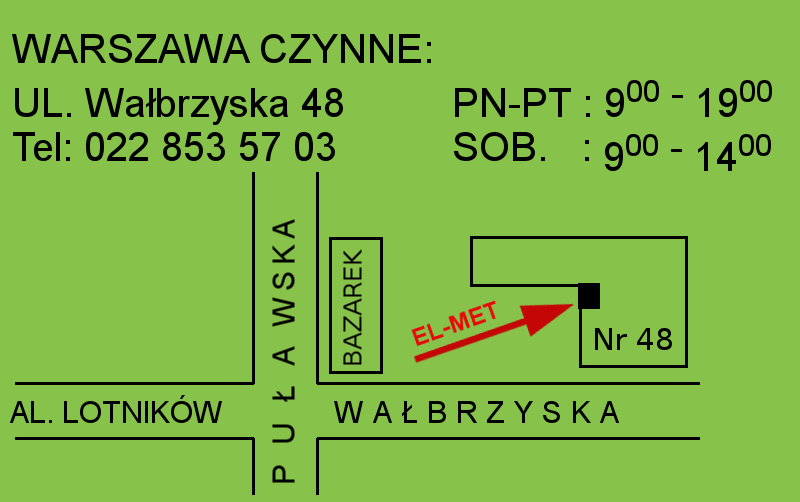
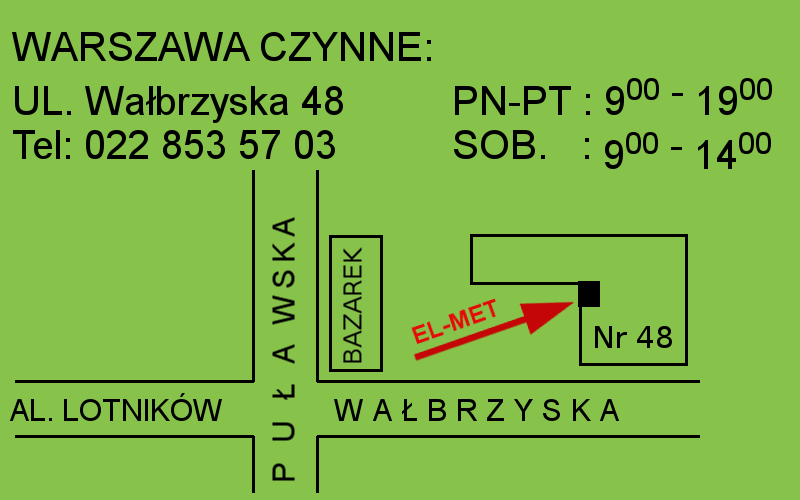
Contact Image | 1. Added scrolling to image only if image outside of viewport 2. Changed a size of pics to be more similar

diff --git a/js/common.js b/js/common.js
@@ -42,3 +42,11 @@ function scrollToElement(domElement) {
     'behavior': 'smooth'
   });
 }
+
+function checkIfElementInViewport(element) {
+  let checkedOffset = element.offsetTop;
+  let isTopOnscreen = window.pageYOffset < checkedOffset && checkedOffset < window.pageYOffset + window.innerHeight;
+  checkedOffset = element.offsetTop + element.offsetHeight;
+  let isBottomOnscreen = window.pageYOffset < checkedOffset && checkedOffset < window.pageYOffset + window.innerHeight;
+  return isTopOnscreen && isBottomOnscreen;
+}

diff --git a/js/scripts.js b/js/scripts.js
@@ -150,7 +150,9 @@ function addOnClickEventToContactImages() {
     if (img && img.getAttribute('src')) {
       contactBigImageElement.setAttribute('src', img.getAttribute('src'));
       blink(imageTopWrapper, 'contact-image-border-tapped');
-      scrollToElement(contactBigImageElement);
+      if (!checkIfElementInViewport(contactBigImageElement)) {
+        scrollToElement(contactBigImageElement);
+      }
       event.stopPropagation();
     }
   });

diff --git a/css/contact.css b/css/contact.css
@@ -75,4 +75,3 @@ img#contact-images-big-image {
 .contact-image-border {
   margin: 0.5em 0.5em;
 }
-
